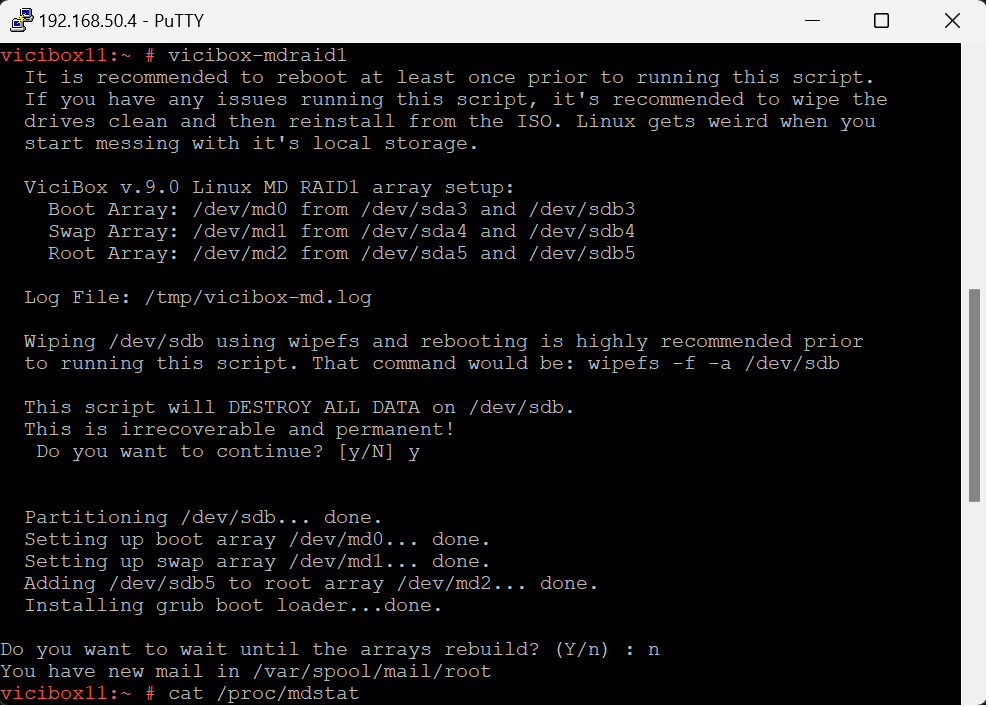
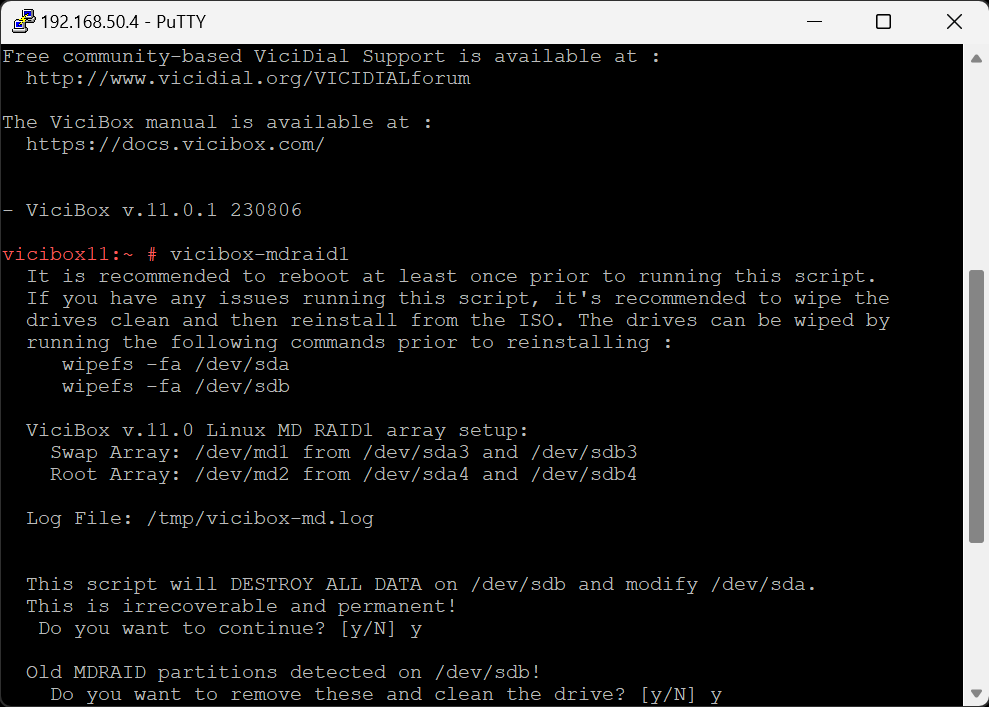
new mdraid and 11.0.1 fixes

diff --git a/docs/source/installation/phase1_5/mdraid-setup.rst b/docs/source/installation/phase1_5/mdraid-setup.rst
@@ -11,10 +11,11 @@ vicibox-mdraid1
 ===============
    #. If not already, login as the ``root`` user to get to the **#** command prompt.
    #. Type ``vicibox-mdraid1`` and press ``ENTER`` to start the setup process.
-   #. A list of updates and a summary of them will be shown. Type ``Y`` and press ``ENTER`` to start downloading and installing updates.
-   #. Occasionally an update will ask if you want to view it's update notice. Press ``ENTER`` to continue if this happens.
+   #. A summary of what will be done is shown. Type ``Y`` and press ``ENTER`` start setting up the RAID array.
+   #. If any old RAID arrays are found the script will prompt if you want to remove them. Type ``Y`` and press ``ENTER`` to remove the old arrays.
+   #. When done, it's recommended to return to the command prompt instead of watching the arrays rebuild. Type ``N`` and press ``ENTER`` to exit to the **#** command prompt
+   #. To check the status of the MD RAID arrays, type ``cat /proc/mdstat`` and press ``ENTER``. md1 is the swap array and md2 is the root array.
    #. While not strictly necessary, it's advised to reboot the server at this time. Type ``reboot`` and press ``ENTER`` to reboot the server.
-
 
 
 Screenshots
@@ -23,9 +24,14 @@ Screenshots
       .. figure:: mdraid-1.png
          :alt: Add second drive and setup RAID 1
          :width: 665
-      
+
+   If old RAID detected, clear it out
+      .. figure:: mdraid-2.png 
+         :alt: If old RAID arrays are found, try to remove them  
+         :width: 665
+   
    Verify RAID array is setup
-      .. figure:: mdraid-2.png
+      .. figure:: mdraid-3.png
          :alt: Reboot for good measure for any system updates
          :width: 665
 
